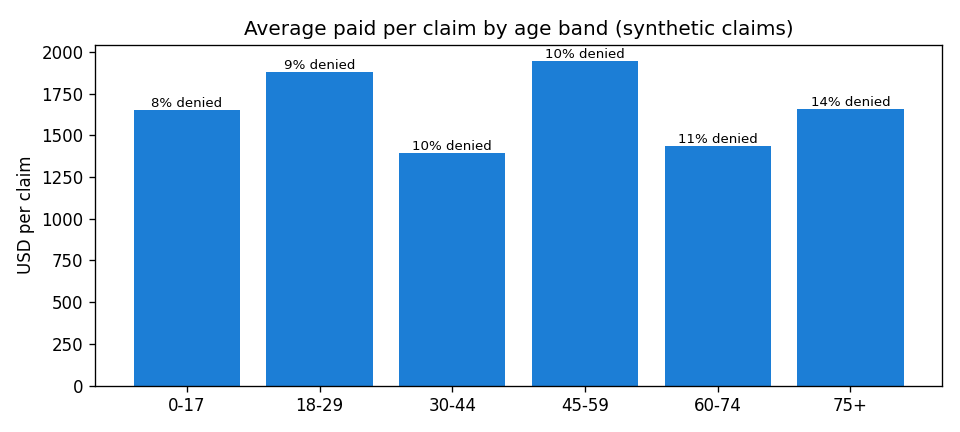
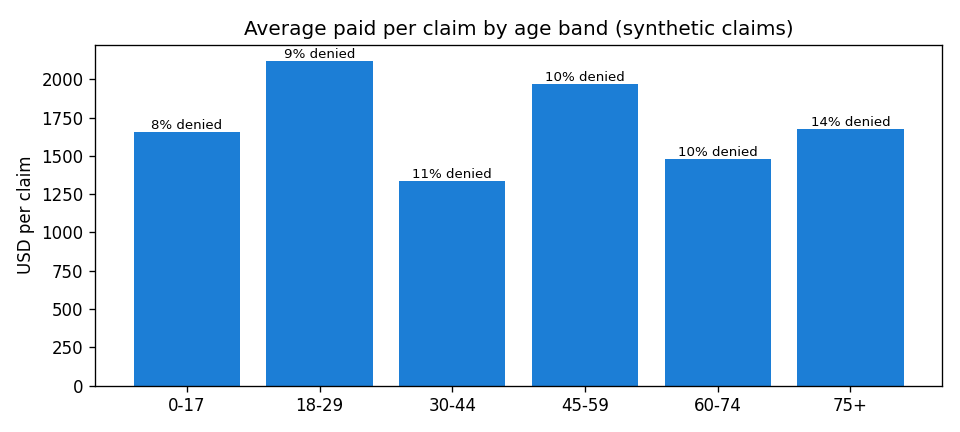
Add read-only query CLI: claim, member and plan lookups
scripts/query.py over the synthetic claims store. +60 synthetic claims, 3 new tests (41 total).

diff --git a/tests/test_cli.py b/tests/test_cli.py
@@ -1,0 +1,52 @@
+import json
+
+from healthdata import cli
+from healthdata.pipeline import Pipeline
+
+
+def make_valid(claim_id, **overrides):
+    claim = {
+        "claim_id": claim_id, "member_id": "MBR-0001", "plan_type": "PPO",
+        "age_band": "30-44", "service_date": "2026-11-01",
+        "procedure_code": "99213", "diagnosis_code": "I10",
+        "billed_amount": 100.0, "allowed_amount": 80.0,
+        "paid_amount": 60.0, "status": "paid", "denial_reason": "",
+    }
+    claim.update(overrides)
+    return claim
+
+
+def store(tmp_path):
+    path = tmp_path / "c.csv"
+    Pipeline(path).ingest([
+        make_valid("CLM-A", member_id="MBR-0001", plan_type="PPO", billed_amount=100,
+                   allowed_amount=80, paid_amount=60),
+        make_valid("CLM-B", member_id="MBR-0001", plan_type="PPO", billed_amount=200,
+                   allowed_amount=0, paid_amount=0, status="denied",
+                   denial_reason="duplicate claim"),
+        make_valid("CLM-C", member_id="MBR-0002", plan_type="HMO"),
+    ])
+    return path
+
+
+def test_member_summary_totals(tmp_path):
+    out = cli.member_summary(Pipeline(store(tmp_path)), "MBR-0001")
+    assert out["claims"] == 2 and out["denied"] == 1
+    assert out["billed"] == 300.0 and out["paid"] == 60.0
+    assert out["claim_ids"] == ["CLM-A", "CLM-B"]
+    assert cli.member_summary(Pipeline(store(tmp_path)), "NOPE") is None
+
+
+def test_claim_and_plan_lookup_case_insensitive(tmp_path):
+    pipe = Pipeline(store(tmp_path))
+    assert cli.lookup_claim(pipe, "CLM-C")["plan_type"] == "HMO"
+    assert cli.lookup_claim(pipe, "missing") is None
+    assert cli.plan_summary(pipe, "ppo")["claims"] == 2
+
+
+def test_main_prints_json_and_exit_codes(tmp_path, capsys):
+    path = store(tmp_path)
+    assert cli.main(["member", "MBR-0001"], store=path) == 0
+    assert json.loads(capsys.readouterr().out)["claims"] == 2
+    assert cli.main(["claim", "nope"], store=path) == 1
+    assert "no claim found" in capsys.readouterr().out

diff --git a/src/healthdata/cli.py b/src/healthdata/cli.py
@@ -1,0 +1,56 @@
+"""Small query CLI over the synthetic claims store.
+
+  python scripts/query.py claim CLM-61117-B01-000003
+  python scripts/query.py member MBR-0076
+  python scripts/query.py plan PPO
+
+Read-only. All data is synthetic.
+"""
+from __future__ import annotations
+
+import argparse
+import json
+from pathlib import Path
+
+from .pipeline import Pipeline
+
+
+def lookup_claim(pipe: Pipeline, claim_id: str) -> dict | None:
+    return pipe.load_store().get(claim_id)
+
+
+def member_summary(pipe: Pipeline, member_id: str) -> dict | None:
+    rows = [r for r in pipe.load_store().values() if r["member_id"] == member_id]
+    if not rows:
+        return None
+    return {
+        "member_id": member_id,
+        "claims": len(rows),
+        "denied": sum(r["status"] == "denied" for r in rows),
+        "billed": round(sum(float(r["billed_amount"] or 0) for r in rows), 2),
+        "paid": round(sum(float(r["paid_amount"] or 0) for r in rows), 2),
+        "claim_ids": sorted(r["claim_id"] for r in rows),
+    }
+
+
+def plan_summary(pipe: Pipeline, plan: str) -> dict | None:
+    for row in pipe.plan_performance():
+        if row["plan"].lower() == plan.lower():
+            return row
+    return None
+
+
+def main(argv: list[str] | None = None, store: Path | None = None) -> int:
+    parser = argparse.ArgumentParser(description=__doc__.splitlines()[0])
+    sub = parser.add_subparsers(dest="cmd", required=True)
+    for name in ("claim", "member", "plan"):
+        sub.add_parser(name).add_argument("key")
+    args = parser.parse_args(argv)
+    pipe = Pipeline(store or Path(__file__).resolve().parents[2] / "data" / "claims.csv")
+    handler = {"claim": lookup_claim, "member": member_summary, "plan": plan_summary}[args.cmd]
+    result = handler(pipe, args.key)
+    if result is None:
+        print(f"no {args.cmd} found for {args.key!r}")
+        return 1
+    print(json.dumps(result, indent=2))
+    return 0

diff --git a/scripts/query.py b/scripts/query.py
@@ -1,0 +1,11 @@
+#!/usr/bin/env python3
+"""Query the synthetic claims store: claim, member or plan summaries."""
+import sys
+from pathlib import Path
+
+sys.path.insert(0, str(Path(__file__).resolve().parents[1] / "src"))
+
+from healthdata.cli import main
+
+if __name__ == "__main__":
+    sys.exit(main())

diff --git a/reports/claims_report.md b/reports/claims_report.md
@@ -1,8 +1,8 @@
 # Healthcare Data - claims pipeline report
 
-Generated 2026-11-18 04:08 UTC. All data is synthetic - no real member, patient or plan information.
+Generated 2026-11-18 09:08 UTC. All data is synthetic - no real member, patient or plan information.
 
-**1460 claims** in store. Billed $4,170,196, paid $2,425,195, denied 148 overall.
+**1520 claims** in store. Billed $4,431,586, paid $2,594,257, denied 155 overall.
 
 ## Monthly financials
 
@@ -20,45 +20,45 @@ Generated 2026-11-18 04:08 UTC. All data is synthetic - no real member, patient 
 | 2026-08 | 50 | $87,251 | $70,911 | $55,220 | 18.0% |
 | 2026-09 | 28 | $97,162 | $80,729 | $53,482 | 7.1% |
 | 2026-10 | 47 | $71,505 | $55,063 | $42,442 | 8.5% |
-| 2026-11 | 981 | $2,900,234 | $2,245,477 | $1,633,745 | 10.1% |
+| 2026-11 | 1041 | $3,161,624 | $2,438,863 | $1,802,808 | 10.2% |
 
 ## Denial reasons
 
-- not medically necessary (37)
-- duplicate claim (32)
-- timely filing exceeded (31)
-- missing prior authorization (25)
-- out-of-network provider (24)
+- not medically necessary (38)
+- timely filing exceeded (33)
+- duplicate claim (33)
+- missing prior authorization (26)
+- out-of-network provider (26)
 
 ## Plan mix
 
-- HMO: 397
-- PPO: 377
-- EPO: 359
-- HDHP: 327
+- HMO: 413
+- PPO: 393
+- EPO: 374
+- HDHP: 340
 
 ## Plan performance
 
 | Plan | Claims | Denial rate | Paid / billed |
 | --- | ---: | ---: | ---: |
-| HMO | 397 | 9.6% | 62.8% |
-| PPO | 377 | 11.9% | 53.3% |
-| EPO | 359 | 10.6% | 55.5% |
-| HDHP | 327 | 8.6% | 61.2% |
+| HMO | 413 | 9.4% | 62.8% |
+| PPO | 393 | 12.0% | 54.4% |
+| EPO | 374 | 11.0% | 55.5% |
+| HDHP | 340 | 8.5% | 61.4% |
 
 ## Top procedures by paid amount
 
 | Code | Claims | Avg billed | Paid | Denial rate |
 | --- | ---: | ---: | ---: | ---: |
-| 27447 | 140 | $25,085 | $2,044,655 | 10.7% |
-| 43239 | 151 | $2,060 | $177,845 | 10.6% |
-| 99285 | 148 | $1,067 | $88,501 | 12.2% |
-| 70450 | 147 | $668 | $59,999 | 6.8% |
-| 99214 | 134 | $166 | $12,747 | 12.7% |
+| 27447 | 149 | $25,130 | $2,195,863 | 10.1% |
+| 43239 | 161 | $2,054 | $190,170 | 10.6% |
+| 99285 | 153 | $1,061 | $91,140 | 12.4% |
+| 70450 | 149 | $668 | $60,780 | 6.7% |
+| 99214 | 142 | $167 | $13,609 | 12.7% |
 
 ## Member utilization
 
-90 of 1023 synthetic members have 3+ claims and account for 16.9% of paid dollars.
+100 of 1055 synthetic members have 3+ claims and account for 19.3% of paid dollars.
 
 | Member | Claims | Paid |
 | --- | ---: | ---: |
@@ -72,22 +72,22 @@ Generated 2026-11-18 04:08 UTC. All data is synthetic - no real member, patient 
 
 | Plan | Denials | Top reason | Count |
 | --- | ---: | --- | ---: |
-| EPO | 38 | not medically necessary | 11 |
-| HDHP | 28 | not medically necessary | 7 |
-| HMO | 38 | not medically necessary | 11 |
-| PPO | 45 | timely filing exceeded | 13 |
+| EPO | 41 | not medically necessary | 11 |
+| HDHP | 29 | not medically necessary | 7 |
+| HMO | 39 | not medically necessary | 11 |
+| PPO | 47 | timely filing exceeded | 14 |
 
 ## Potential duplicate services
 
-16 groups share a member, procedure and service date (review queue, not a quality failure).
+17 groups share a member, procedure and service date (review queue, not a quality failure).
 
 | Member | Procedure | Date | Claims | Paid |
 | --- | --- | --- | ---: | ---: |
 | MBR-0076 | 27447 | 2026-11-17 | 2 | $35,616 |
+| MBR-1695 | 27447 | 2026-11-18 | 2 | $25,258 |
 | MBR-1025 | 27447 | 2026-11-17 | 2 | $23,763 |
 | MBR-1697 | 43239 | 2026-11-17 | 2 | $2,808 |
 | MBR-1896 | 43239 | 2026-11-17 | 2 | $2,471 |
-| MBR-0784 | 70450 | 2026-11-17 | 2 | $826 |
 
 ## Cost by age band
 

diff --git a/README.md b/README.md
@@ -30,6 +30,7 @@ seeded RNG - no real member, patient, provider or plan data anywhere.
 pip install -r requirements.txt
 python examples/quick_demo.py       # 500 synthetic claims through the pipeline
 python scripts/daily_update.py      # full update round with quality gates
+python scripts/query.py member MBR-0076   # claim / member / plan lookups
 python -m pytest                    # offline test suite
 ```
 
